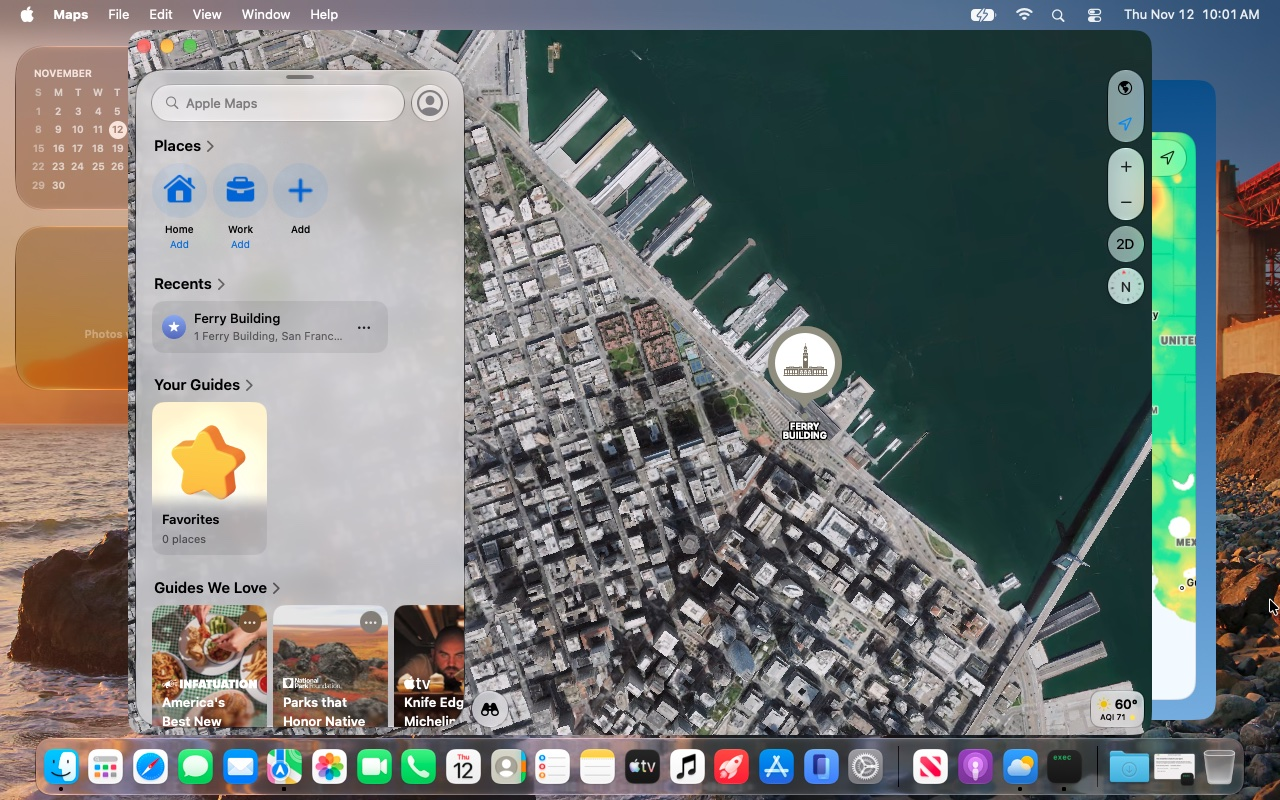
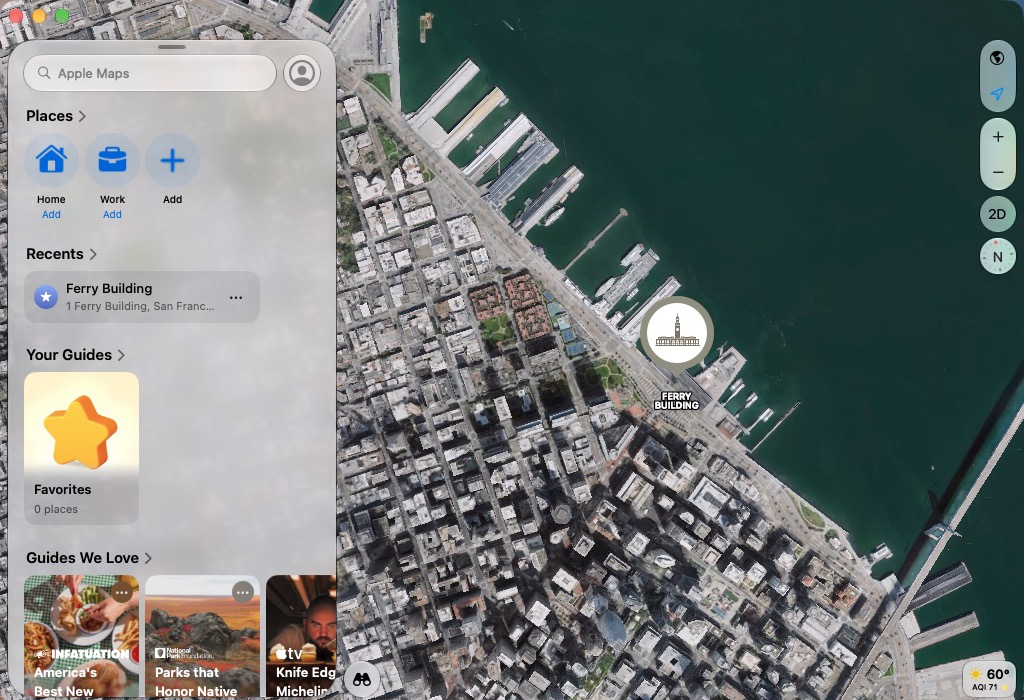
README and gallery: argument-buffer showcase, clean screenshots
- README: a short "Metal argument buffers on the Intel HD 4000" showcase (Weather wind and temperature maps side by
  side, the Safari WebGPU check) linking to the gallery and tools/metal-argbuf.
- Main screenshot: 27.2.1 on 2026-11-11 (About This Mac, Control Center, widgets; serial blank) replaces the
  2026-11-07 desktop, which showed an older build, a "Weather Unavailable" widget and a bench tool in the Dock. The
  Wi-Fi network name in Control Center is blanked.
- Gallery: every image cropped to its app window, removing the Dock and the bench tool's icon.

Tested: README and gallery image links resolve; pipeline private-reference guard OK; images checked by eye.

diff --git a/README.md b/README.md
@@ -8,10 +8,25 @@ kernel extensions, drivers and boot files macOS 26 (Tahoe) still ships, legacy h
 Patcher, a set of compatibility fixes, and [hao-runtime](https://github.com/lythka/hao-runtime), which runs Golden
 Gate's ARM-only programs on the Intel CPU.
 
-![macOS 27 desktop and Control Center on an Intel Mac](docs/images/desktop-intel.jpg)
+![macOS 27.2.1 on a 2012 MacBook Pro: About This Mac, Control Center and widgets](docs/images/desktop-intel.jpg)
 
 [Gallery](docs/gallery.md) · [Progress](docs/progress.md) · [Building](docs/building.md) ·
 [Buy me a coffee](https://buymeacoffee.com/lythka)
+
+### Metal argument buffers on the Intel HD 4000
+
+The HD 4000's legacy Metal stack has no argument buffers or ASTC textures, which Weather's maps, Safari's WebGPU,
+SceneKit and Apple's effects engine need. hao-patcher adds both to the shader compiler and the driver
+([tools/metal-argbuf](tools/metal-argbuf)):
+
+<p>
+<img src="docs/images/gallery/weather-wind-map.jpg" alt="Weather wind map on the HD 4000" width="49%">
+<img src="docs/images/gallery/weather-temperature-map.jpg" alt="Weather temperature map on the HD 4000" width="49%">
+</p>
+
+<img src="docs/images/argbuf-webgpu.jpg" alt="Safari WebGPU compute and render check passing on the HD 4000" width="98%">
+
+More in the [gallery](docs/gallery.md): the air-quality map, Maps in 3D and SceneKit.
 
 ## Status
 

diff --git a/docs/gallery.md b/docs/gallery.md
@@ -1,6 +1,6 @@
 # Gallery
 
-macOS 27.2.1 (26B131) on the development platform, a 2012 MacBook Pro (Intel HD 4000), 2026-11-12. Weather and
+macOS 27.2.1 (26B131) on the development platform, a 2012 MacBook Pro (Intel HD 4000), 2026-11-12 (app windows shown). Weather and
 WebGPU need Metal argument buffers and ASTC textures, which the HD 4000's legacy Metal stack does not provide;
 [tools/metal-argbuf](../tools/metal-argbuf) implements them in the shader compiler and the driver. Maps and SceneKit
 need their shader libraries repaired for the old compiler ([cache/metallib](../cache/metallib)).
